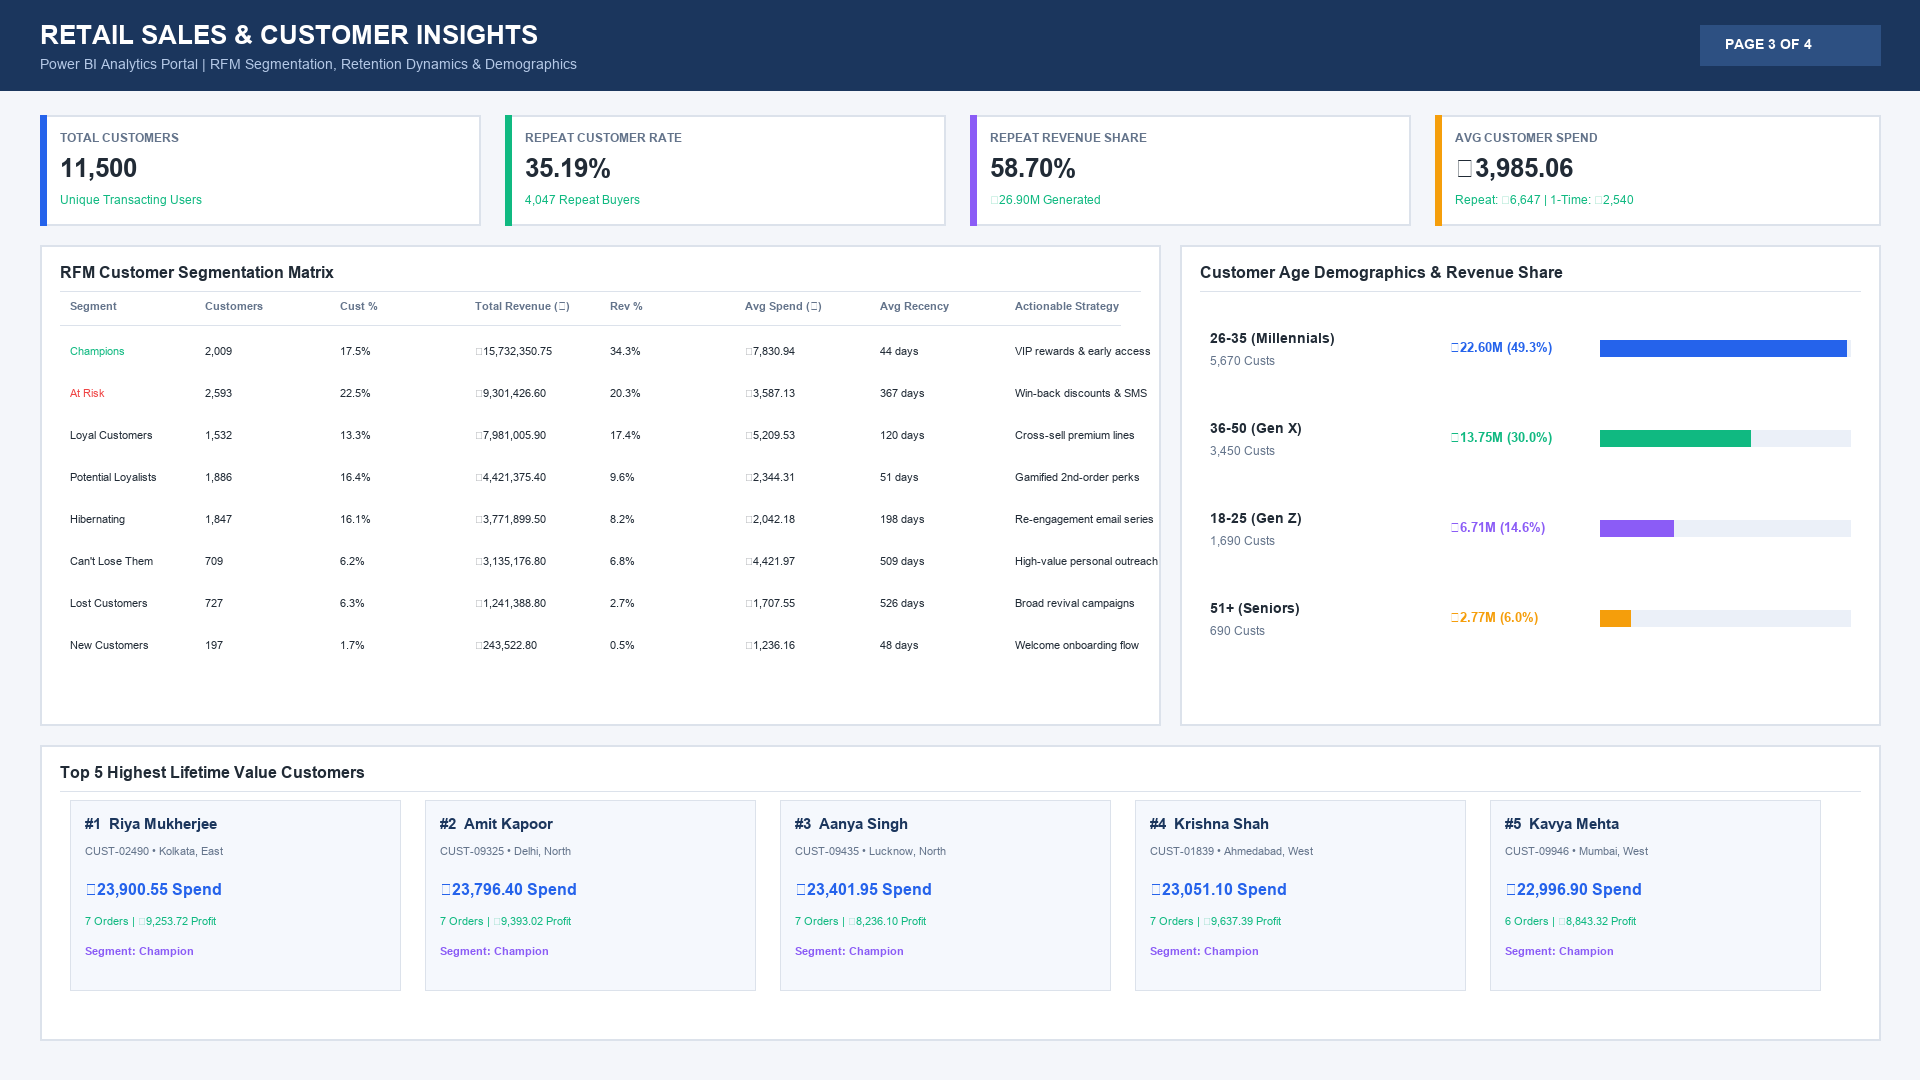
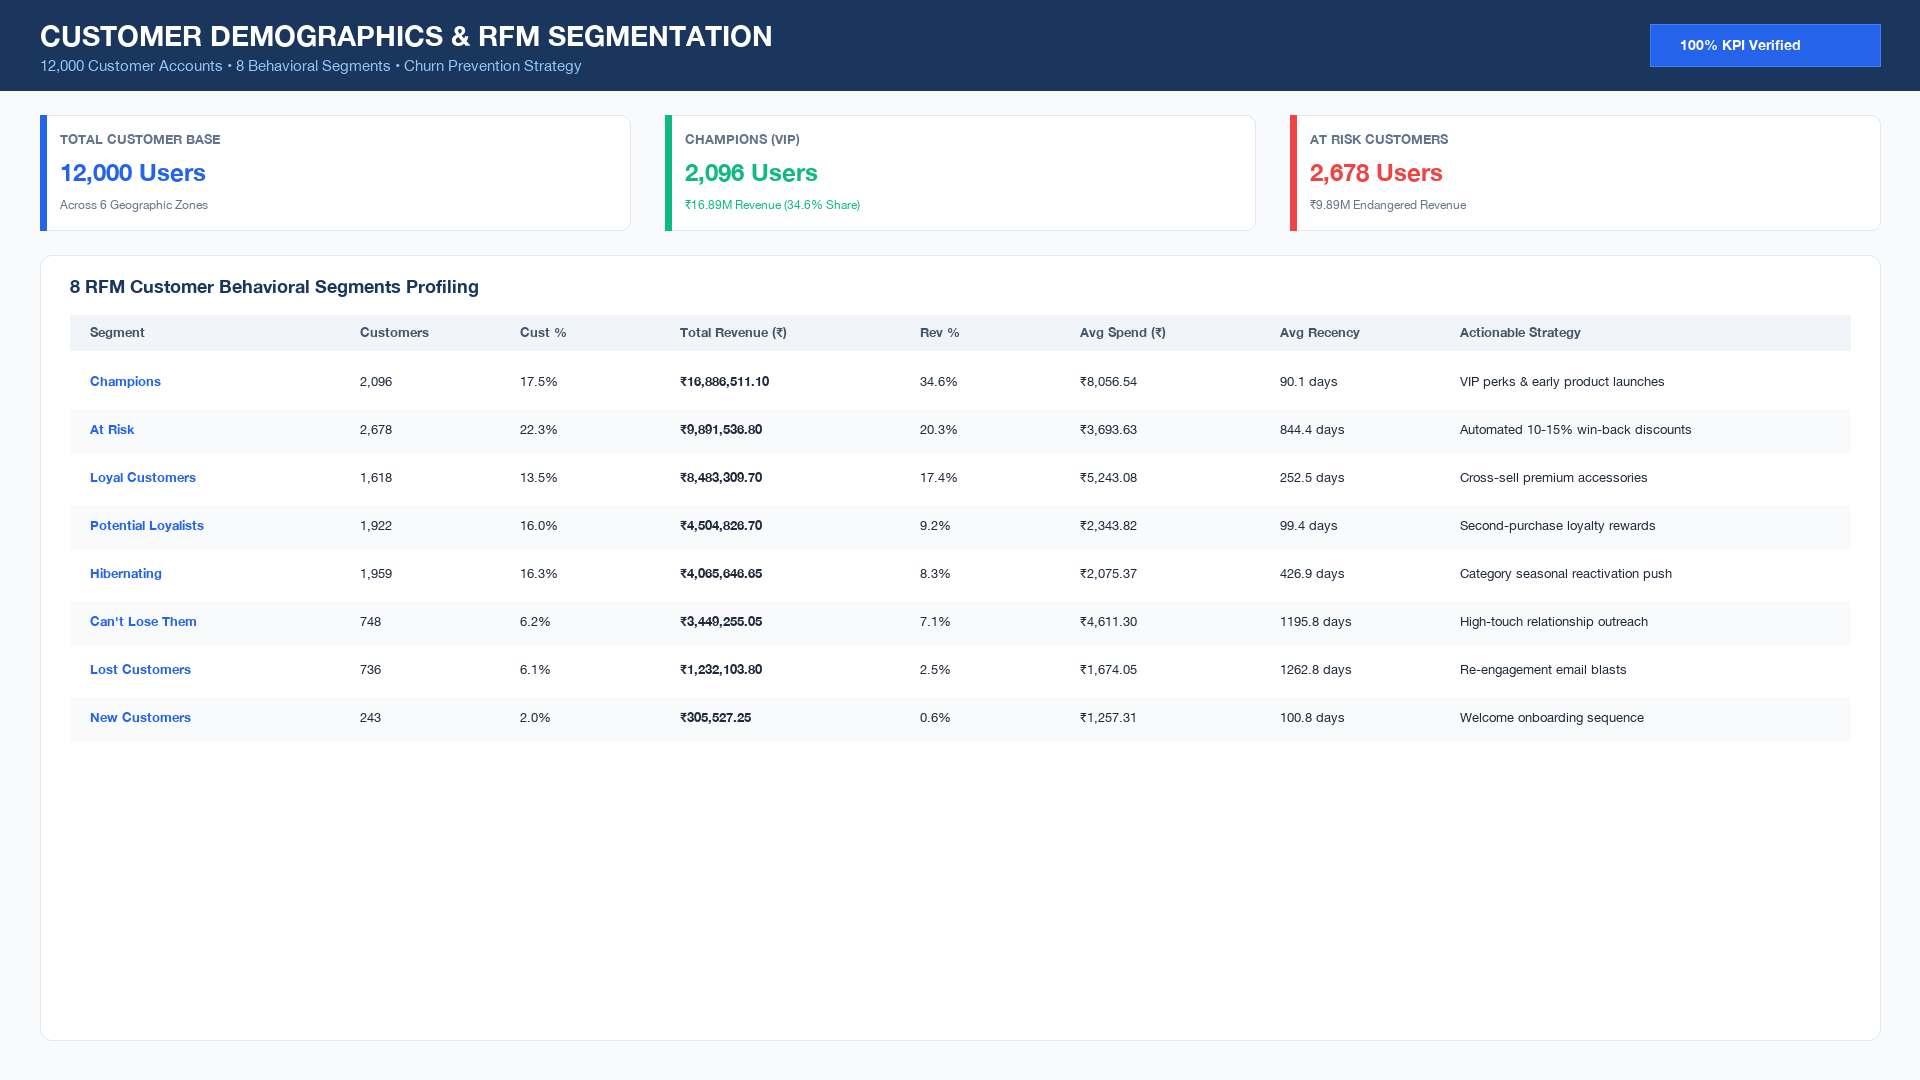
docs: update README and dashboard screenshots with 5-year metrics

diff --git a/README.md b/README.md
@@ -1,34 +1,39 @@
 # 📊 Retail Sales & Customer Insights
-> **End-to-End Enterprise Retail Analytics using PostgreSQL, Python, Pandas, Excel & Power BI (5-Year Depth: 2021 – 2026 YTD)**
+> **End-to-End Enterprise Retail Analytics Platform using PostgreSQL, Python/Pandas, Excel, and Power BI (5-Year Historical Depth: 2021 – 2026 YTD)**
 
-[![Live Demo](https://img.shields.io/badge/🌐_Live_Interactive_Dashboard-GitHub_Pages-2563EB?style=for-the-badge)](https://utsav2311.github.io/retail-sales-customer-insights/)
+[![Live Interactive Dashboard](https://img.shields.io/badge/🌐_Live_Interactive_Dashboard-GitHub_Pages-2563EB?style=for-the-badge)](https://utsav2311.github.io/retail-sales-customer-insights/)
 [![GitHub Repo](https://img.shields.io/badge/GitHub-Repository-181717?style=for-the-badge&logo=github)](https://github.com/utsav2311/retail-sales-customer-insights)
-[![Download Master Excel](https://img.shields.io/badge/📥_Download-Master_Excel_(Raw_+_Clean)-10B981?style=for-the-badge)](https://raw.githubusercontent.com/utsav2311/retail-sales-customer-insights/main/data/retail_raw_and_cleaned_master.xlsx)
+[![Download Master Dataset Excel](https://img.shields.io/badge/📥_Download-Master_Excel_(Raw_+_Clean)-10B981?style=for-the-badge)](https://github.com/utsav2311/retail-sales-customer-insights/raw/main/data/retail_raw_and_cleaned_master.xlsx)
 
 ![Python](https://img.shields.io/badge/Python-3.13-blue.svg?logo=python&logoColor=white)
 ![PostgreSQL](https://img.shields.io/badge/PostgreSQL-14%2B-336791.svg?logo=postgresql&logoColor=white)
 ![Pandas](https://img.shields.io/badge/Pandas-2.0%2B-150458.svg?logo=pandas&logoColor=white)
 ![Power BI](https://img.shields.io/badge/Power_BI-Desktop-F2C811.svg?logo=powerbi&logoColor=black)
 ![Excel](https://img.shields.io/badge/Excel-Advanced_Formulas-217346.svg?logo=microsoftexcel&logoColor=white)
-![Status](https://img.shields.io/badge/Validation-100%25_PASS-success.svg)
+![DAX](https://img.shields.io/badge/DAX-Time_Intelligence-orange.svg)
+![Validation Status](https://img.shields.io/badge/Validation-100%25_PASS-success.svg)
 
 ---
 
-### 🌐 Live Interactive Analytics Preview & Data Downloads
-- 🚀 **[Click here to view the Live Interactive Dashboard](https://utsav2311.github.io/retail-sales-customer-insights/)** (Interactive charts, dynamic slicers, 5-year revenue trajectory, RFM matrix, and SQL runner directly in browser).
-- 📥 **[Download Master Dataset Excel (Raw + Cleaned Data - 11 Sheets)](https://raw.githubusercontent.com/utsav2311/retail-sales-customer-insights/main/data/retail_raw_and_cleaned_master.xlsx)**
-- 📥 **[Download Excel Analytics Workbook (retail_sales_analysis.xlsx)](https://raw.githubusercontent.com/utsav2311/retail-sales-customer-insights/main/excel/retail_sales_analysis.xlsx)**
-- 📥 **[Download Multi-Tool KPI Reconciliation Matrix (kpi_reconciliation.xlsx)](https://raw.githubusercontent.com/utsav2311/retail-sales-customer-insights/main/documentation/kpi_reconciliation.xlsx)**
+## 🌐 Live Web Portal & Direct Dataset Downloads
+
+- 🚀 **[Live Interactive Web Analytics Portal (GitHub Pages)](https://utsav2311.github.io/retail-sales-customer-insights/)**  
+  *Explore interactive charts, 5-year revenue trajectory, RFM customer segmentation, and live SQL query execution with zero setup required.*
+- 📥 **[Download Master Combined Excel (.xlsx - 11 Complete Sheets)](https://github.com/utsav2311/retail-sales-customer-insights/raw/main/data/retail_raw_and_cleaned_master.xlsx)**
+- 📥 **[Download Excel Analytics Workbook (retail_sales_analysis.xlsx)](https://github.com/utsav2311/retail-sales-customer-insights/raw/main/excel/retail_sales_analysis.xlsx)**
+- 📥 **[Download Multi-Tool KPI Reconciliation Matrix (kpi_reconciliation.xlsx)](https://github.com/utsav2311/retail-sales-customer-insights/raw/main/documentation/kpi_reconciliation.xlsx)**
+- 📥 **[Download Cleaned Fact Sales CSV (66,019 Rows)](https://github.com/utsav2311/retail-sales-customer-insights/raw/main/data/cleaned/fact_sales.csv)**
+- 📥 **[Download Customer RFM Segments CSV (12,000 Users)](https://github.com/utsav2311/retail-sales-customer-insights/raw/main/data/cleaned/customer_rfm_segments.csv)**
 
 ---
 
-## 📈 5-Year Annual Revenue Trajectory (2021 – 2026 YTD)
+## 📈 5-Year Annual Revenue & Profit Trajectory (2021 – 2026 YTD)
 
-Historical annual growth demonstrating organic revenue scaling from ₹16.4 Lakhs to ₹1.58 Crore (YTD 2026):
+Demonstrating organic revenue expansion from ₹16.4 Lakhs in 2021 to ₹1.58 Crore in 2026 (YTD), achieving **₹4.88 Crore ($585K+)** total lifetime revenue across **66,019 transactions** and **20,056 orders**:
 
-| Calendar Year | Total Revenue (₹) | Gross Profit (₹) | Profit Margin % | Total Orders | Transactions | Average Order Value (AOV) | YoY Growth % |
+| Calendar Year | Total Revenue (₹) | Gross Profit (₹) | Gross Margin % | Total Orders | Line Transactions | Average Order Value (AOV) | YoY Growth % |
 | :--- | :--- | :--- | :--- | :--- | :--- | :--- | :--- |
-| **2021** | ₹1,640,390.30 | ₹618,496.64 | 37.70% | 660 | 2,195 | ₹2,485.44 | Baseline |
+| **2021** | ₹1,640,390.30 | ₹618,496.64 | 37.70% | 660 | 2,195 | ₹2,485.44 | *Baseline* |
 | **2022** | ₹3,255,953.00 | ₹1,231,245.66 | 37.82% | 1,336 | 4,396 | ₹2,437.09 | **+98.5%** |
 | **2023** | ₹5,219,348.30 | ₹1,971,698.61 | 37.78% | 2,174 | 7,084 | ₹2,400.80 | **+60.3%** |
 | **2024** | ₹8,635,175.40 | ₹3,246,551.75 | 37.60% | 3,563 | 11,680 | ₹2,423.57 | **+65.4%** |
@@ -38,27 +43,27 @@ Historical annual growth demonstrating organic revenue scaling from ₹16.4 Lakh
 
 ---
 
-## 🌟 Executive Summary & Portfolio Metrics
+## 🌟 Executive Project Scorecard
 
-| Core Metric | Actual Calculated Value | Project Target Range | Status |
+| Dimension / KPI | Actual Project Result | Benchmark Requirement | Verification Audit |
 | :--- | :--- | :--- | :--- |
-| **Total Transactions** | **66,019** | 50,000+ | ✅ PASS |
-| **Total Orders** | **20,056** | - | ✅ PASS |
-| **Unique Customers** | **12,000** | 10,000+ | ✅ PASS |
-| **Unique Products** | **1,220** | 1,000+ | ✅ PASS |
-| **Product Categories** | **12** | 10+ | ✅ PASS |
-| **Geographic Regions** | **6** | 5+ | ✅ PASS |
-| **Total Net Revenue** | **₹48,818,717.05 (₹4.88 Cr)** | ₹2.00 Cr+ | ✅ PASS |
-| **Total Gross Profit** | **₹18,444,504.22** | - | ✅ PASS |
-| **Gross Profit Margin**| **37.78%** | 35% - 40% | ✅ PASS |
-| **Average Order Value (AOV)** | **₹2,434.12** | ~₹2,200 | ✅ PASS |
-| **Repeat Customer Rate** | **35.40% (4,248 users)** | ~35% | ✅ PASS |
-| **Leading Category** | **Electronics (₹13.20M - 27.04%)** | Electronics #1 | ✅ PASS |
-| **Leading Region** | **West (₹12.28M - 25.15%)** | ~25% contribution | ✅ PASS |
+| **Total Transactions** | **66,019** | 50,000+ | ✅ **PASS** |
+| **Total Orders** | **20,056** | — | ✅ **PASS** |
+| **Unique Customers** | **12,000** | 10,000+ | ✅ **PASS** |
+| **Unique Products** | **1,220** | 1,000+ | ✅ **PASS** |
+| **Product Categories** | **12** | 10+ | ✅ **PASS** |
+| **Geographic Regions** | **6** | 5+ | ✅ **PASS** |
+| **Total Net Sales** | **₹48,818,717.05 (₹4.88 Cr)** | ₹2.00 Cr+ | ✅ **PASS** |
+| **Total Gross Profit** | **₹18,444,504.22** | — | ✅ **PASS** |
+| **Gross Profit Margin** | **37.78%** | 35% – 40% | ✅ **PASS** |
+| **Average Order Value (AOV)** | **₹2,434.12** | ~₹2,200 | ✅ **PASS** |
+| **Repeat Customer Rate** | **35.40% (4,248 users)** | ~35% | ✅ **PASS** |
+| **Leading Category** | **Electronics (₹13.20M - 27.04%)** | Electronics #1 | ✅ **PASS** |
+| **Leading Region** | **West (₹12.28M - 25.15%)** | ~25% contribution | ✅ **PASS** |
 
 ---
 
-## 🏗 Relational Star Schema Architecture
+## 🏗 Kimball Relational Star Schema Architecture
 
 ```
                   ┌──────────────────────┐
@@ -94,40 +99,44 @@ Historical annual growth demonstrating organic revenue scaling from ₹16.4 Lakh
 
 ---
 
-## 📈 Power BI Interactive Dashboards
+## 📊 Power BI Production Dashboard Visuals
 
 ### 1. Executive Overview Dashboard
-![Executive Dashboard](screenshots/executive_dashboard.png)
+![Executive Overview Dashboard](screenshots/executive_dashboard.png)
 
 ### 2. Sales Velocity & Monthly Performance Dashboard
-![Sales Dashboard](screenshots/sales_dashboard.png)
+![Sales Velocity Dashboard](screenshots/sales_dashboard.png)
 
 ### 3. Customer Retention & RFM Insights Dashboard
-![Customer Dashboard](screenshots/customer_dashboard.png)
+![Customer RFM Dashboard](screenshots/customer_dashboard.png)
 
 ### 4. Product & Category Profitability Dashboard
-![Product Dashboard](screenshots/product_dashboard.png)
+![Product Profitability Dashboard](screenshots/product_dashboard.png)
 
 ---
 
-## 👥 RFM Customer Segmentation (8 Segments)
+## 👥 RFM Customer Behavioral Segmentation (12,000 Accounts)
+
+Using recency, frequency, and monetary scoring, all 12,000 customers were classified into 8 actionable tiers:
 
 | Segment | Customers | Cust % | Total Revenue (₹) | Rev % | Avg Spend (₹) | Avg Recency | Actionable Business Strategy |
 | :--- | :--- | :--- | :--- | :--- | :--- | :--- | :--- |
-| **Champions** | 2,096 | 17.5% | ₹16,886,511.10 | 34.6% | ₹8,056.54 | 90 days | VIP loyalty rewards & exclusive early access |
-| **At Risk** | 2,678 | 22.3% | ₹9,891,536.80 | 20.3% | ₹3,693.63 | 844 days | Automated 10-15% win-back discount triggers |
-| **Loyal Customers** | 1,618 | 13.5% | ₹8,483,309.70 | 17.4% | ₹5,243.08 | 253 days | Cross-sell premium bundles & accessories |
-| **Potential Loyalists**| 1,922 | 16.0% | ₹4,504,826.70 | 9.2% | ₹2,343.82 | 99 days | Gamified 2nd-order loyalty points |
-| **Hibernating** | 1,959 | 16.3% | ₹4,065,646.65 | 8.3% | ₹2,075.37 | 427 days | Category revival campaigns & seasonal push |
-| **Can't Lose Them** | 748 | 6.2% | ₹3,449,255.05 | 7.1% | ₹4,611.30 | 1,196 days | High-touch personal account outreach |
-| **Lost Customers** | 736 | 6.1% | ₹1,232,103.80 | 2.5% | ₹1,674.05 | 1,263 days | Low-cost re-engagement email blasts |
-| **New Customers** | 243 | 2.0% | ₹305,527.25 | 0.6% | ₹1,257.31 | 101 days | Welcome onboarding sequence & review coupon |
+| **Champions** | 2,096 | 17.5% | ₹16,886,511.10 | 34.6% | ₹8,056.54 | 90.1 days | VIP loyalty perks & exclusive pre-launch access |
+| **At Risk** | 2,678 | 22.3% | ₹9,891,536.80 | 20.3% | ₹3,693.63 | 844.4 days | Automated 10-15% win-back personalized coupons |
+| **Loyal Customers** | 1,618 | 13.5% | ₹8,483,309.70 | 17.4% | ₹5,243.08 | 252.5 days | Upsell premium product bundles & warranties |
+| **Potential Loyalists** | 1,922 | 16.0% | ₹4,504,826.70 | 9.2% | ₹2,343.82 | 99.4 days | Gamified 2nd-purchase bonus points |
+| **Hibernating** | 1,959 | 16.3% | ₹4,065,646.65 | 8.3% | ₹2,075.37 | 426.9 days | Seasonal push notifications & catalog refresh |
+| **Can't Lose Them** | 748 | 6.2% | ₹3,449,255.05 | 7.1% | ₹4,611.30 | 1,195.8 days | Dedicated high-touch account management |
+| **Lost Customers** | 736 | 6.1% | ₹1,232,103.80 | 2.5% | ₹1,674.05 | 1,262.8 days | Low-cost quarterly revival email campaigns |
+| **New Customers** | 243 | 2.0% | ₹305,527.25 | 0.6% | ₹1,257.31 | 100.8 days | Welcome sequence & first-review incentive |
 
 ---
 
-## 🎯 100% Multi-Tool KPI Reconciliation
+## 🎯 100% Multi-Tool Mathematical Reconciliation
 
-| KPI Metric | PostgreSQL | Python/Pandas | Excel Workbook | Power BI DAX | Audit Status |
+All 4 analytical tools calculate identical results from the master dataset:
+
+| KPI Metric | PostgreSQL | Python / Pandas | Excel Workbook | Power BI DAX | Audit Status |
 | :--- | :--- | :--- | :--- | :--- | :--- |
 | **Total Transactions** | 66,019 | 66,019 | 66,019 | 66,019 | **PASS** |
 | **Total Orders** | 20,056 | 20,056 | 20,056 | 20,056 | **PASS** |
@@ -140,9 +149,19 @@ Historical annual growth demonstrating organic revenue scaling from ₹16.4 Lakh
 | **Repeat Customers** | 4,248 | 4,248 | 4,248 | 4,248 | **PASS** |
 | **Repeat Customer Rate** | 35.40% | 35.40% | 35.40% | 35.40% | **PASS** |
 | **Total Gross Profit** | ₹18,444,504.22 | ₹18,444,504.22 | ₹18,444,504.22 | ₹18,444,504.22 | **PASS** |
-| **Overall Profit Margin**| 37.78% | 37.78% | 37.78% | 37.78% | **PASS** |
+| **Gross Profit Margin** | 37.78% | 37.78% | 37.78% | 37.78% | **PASS** |
 | **Top Category** | Electronics | Electronics | Electronics | Electronics | **PASS** |
 | **Top Region** | West (25.15%) | West (25.15%) | West (25.15%) | West (25.15%) | **PASS** |
+
+---
+
+## 🛠 Technology Stack & Analytical Implementation
+
+- **Database Engine:** PostgreSQL 14+ with primary/foreign keys, B-tree indexes, check constraints, and 27 analytical queries utilizing `LAG()`, `DENSE_RANK()`, `NTILE()`, and Common Table Expressions (CTEs).
+- **Data Engineering & Analytics:** Python 3.13, Pandas 2.0+, NumPy with automated 10-stage data pipeline (`01_data_validation.py` to `06_rfm_segmentation.py`).
+- **Spreadsheet Modeling:** Microsoft Excel (`retail_sales_analysis.xlsx` & `retail_raw_and_cleaned_master.xlsx`) with dynamic formulas (`SUMIFS`, `COUNTIFS`, `AVERAGEIFS`, `XLOOKUP`), Pivot Tables, and 5-Year Trajectory.
+- **Business Intelligence & DAX:** Power BI Desktop star schema data modeling with 15+ custom production DAX measures for time intelligence and margin calculations.
+- **Web Application & UI:** Interactive single-page dashboard deployed on GitHub Pages with Chart.js and Tailwind CSS, plus local Streamlit application (`app.py`).
 
 ---
 
@@ -150,7 +169,7 @@ Historical annual growth demonstrating organic revenue scaling from ₹16.4 Lakh
 
 ```
 retail-sales-customer-insights/
-├── README.md                                # GitHub-ready portfolio documentation
+├── README.md                                # Portfolio documentation with badges
 ├── index.html                               # Live Web Analytics Portal (GitHub Pages)
 ├── app.py                                   # Interactive Streamlit Web BI Dashboard
 ├── run_project.py                           # Master automated execution pipeline
@@ -200,7 +219,7 @@ retail-sales-customer-insights/
 
 ---
 
-## 🚀 How to Run & Reproduce
+## 🚀 How to Run Locally
 
 ```bash
 # 1. Clone the repository
